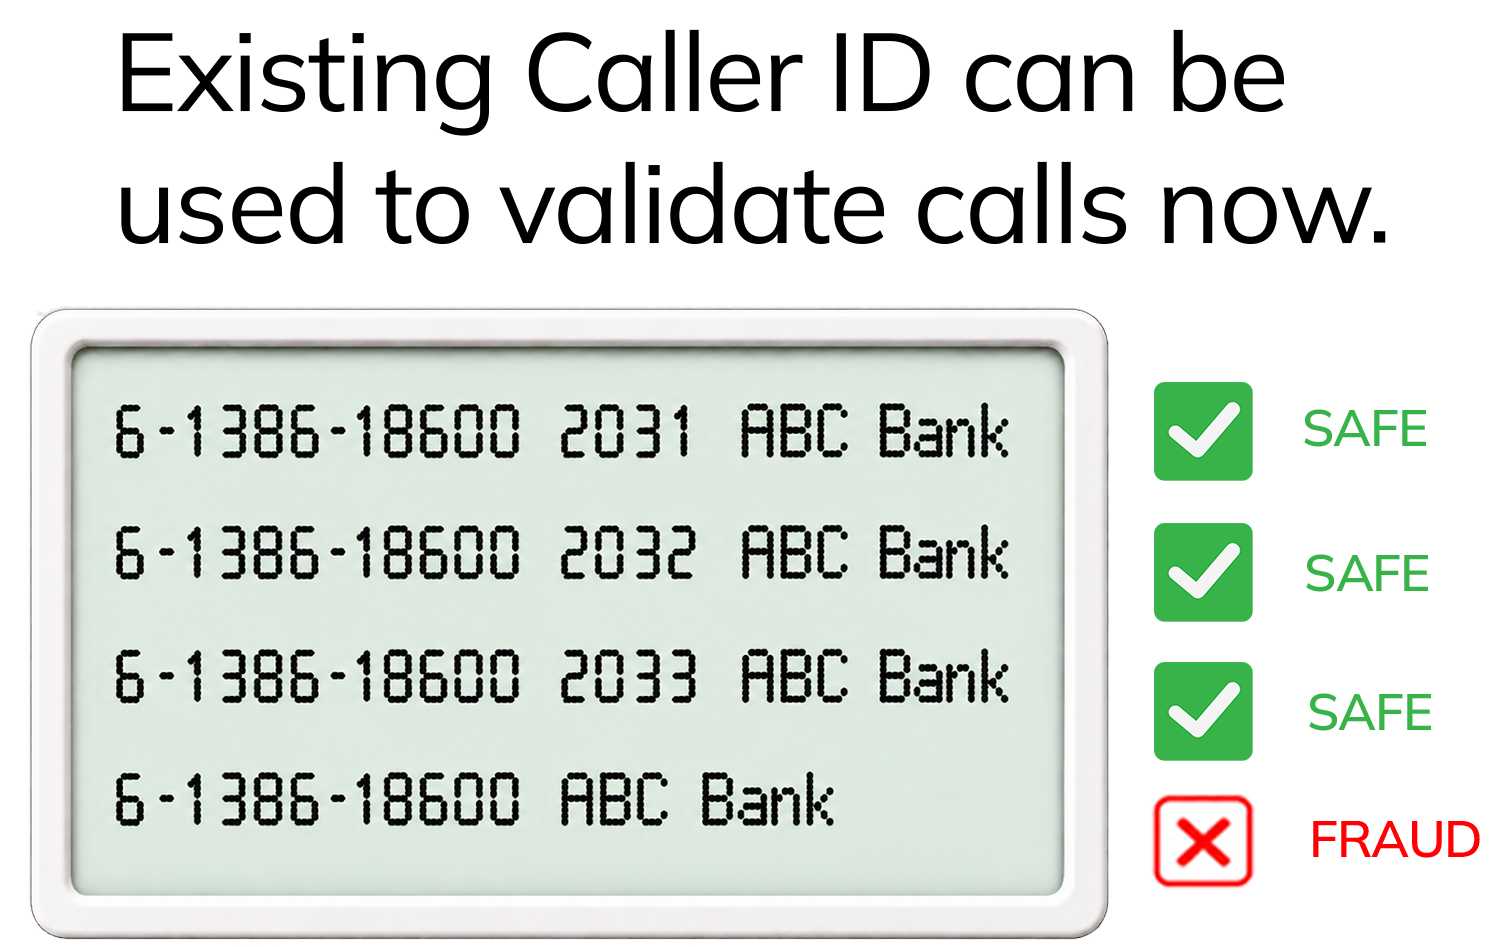
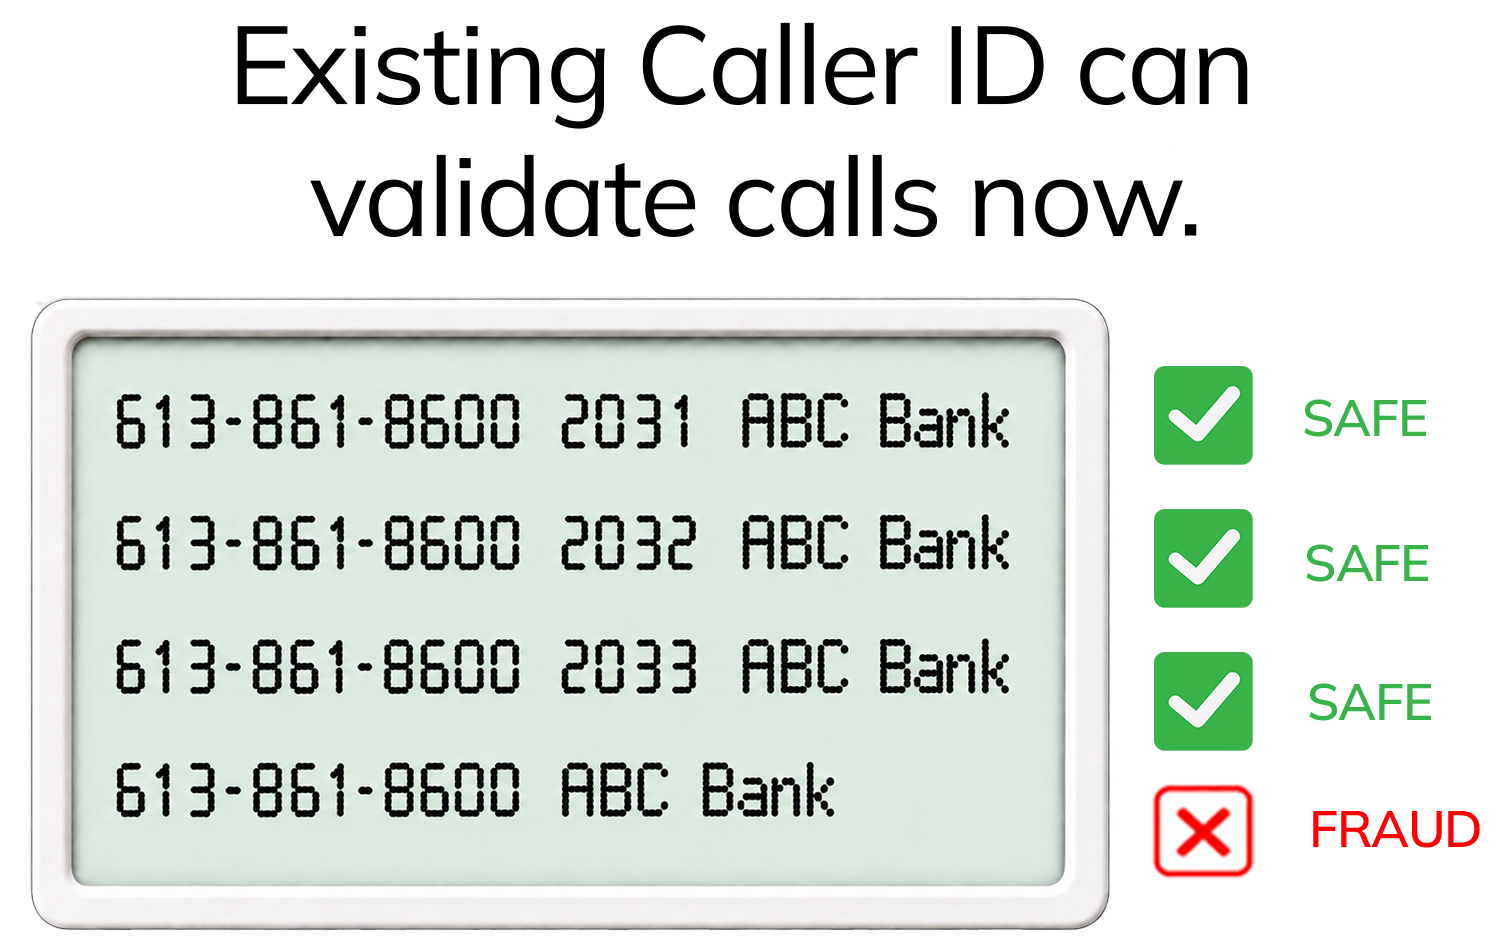
Update hero/caller-ID images, fix footer Up button, equalize home hero gaps
- Update existing caller ID, hero v1, and hero v2 images
- Fix PageUpButton's Up arrow: it targeted #footer-products (its own
  container), making the click a no-op; now targets the pane directly
  above the footer
- Home hero row: shift middle image left to equalize the gap on both
  sides (was 98px/48px, now ~74px/72px)

diff --git a/src/components/ui/PageUpButton.jsx b/src/components/ui/PageUpButton.jsx
@@ -28,9 +28,16 @@ export default function PageUpButton({ inline = false }) {
   }
 
   function handleUp() {
-    const target =
-      document.querySelector("#footer-products") ??
-      Array.from(document.querySelectorAll("section")).pop();
+    // This button always renders inside #footer-products itself, so
+    // targeting that element was a no-op click (already there). Find the
+    // pane that actually sits directly above it instead.
+    const footer = document.querySelector("#footer-products");
+    const sections = Array.from(document.querySelectorAll("section"));
+    const target = footer
+      ? sections
+          .filter((el) => el.compareDocumentPosition(footer) & Node.DOCUMENT_POSITION_FOLLOWING)
+          .pop()
+      : sections[sections.length - 1];
 
     if (target) {
       scrollToElement(target);

diff --git a/src/pages/Home.jsx b/src/pages/Home.jsx
@@ -71,7 +71,7 @@ export default function Home() {
           <img
             src={publicPath("/assets/images/hero%20v2.png")}
             alt="PhishCounter sequence verification on ABC Bank messages"
-            className="mx-auto h-auto w-[100%] max-w-none origin-top translate-y-2.5 scale-[0.8] object-contain home-hero-trio-hover-zoom"
+            className="mx-auto h-auto w-[100%] max-w-none origin-top -translate-x-6 translate-y-2.5 scale-[0.8] object-contain home-hero-trio-hover-zoom"
           />
         </div>
         <div className="min-w-0 lg:flex-1">
